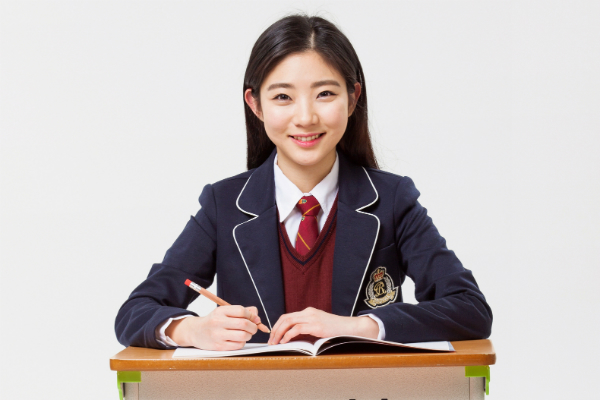
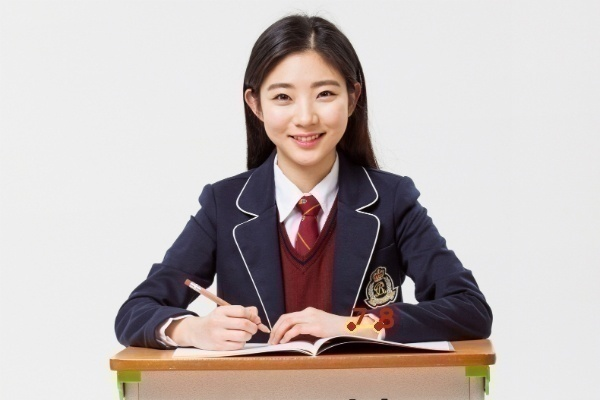
serer&db

diff --git a/Server/run.py b/Server/run.py
@@ -1,17 +1,28 @@
-from analysisVideo import AnalyzeVideo
-
-analyze = AnalyzeVideo()
-
-fname = 'image/hand2.jpg'
+#from analysisVideo import AnalyzeVideo
+from database.connect import Database
+from datetime import datetime
+#analyze = AnalyzeVideo()
+db = Database()
+fname = 'image/sample3.jpg'
 
 # analyze._analyzeFace(fname)
 # analyze._analyzePose(fname)
-analyze._analyzeHand(fname)
+#analyze._analyzeHand(fname)
 
-# from database.connect import Database
-# import datetime
-# db = Database()
 
-# args = (datetime.datetime.now(),1,0,0,1,0)
-# db.insertData(args)
-# db.selectAllData()q
+# 학생의 하나의 영상 테이블 생성
+studentID = "AAA"
+today = datetime.today().strftime("%Y%m%d")
+args = (studentID,today)
+cnt = int(db.checkCnt(args))
+cnt=cnt+1
+args = (studentID,today,cnt)
+db.createOneVideo(args)
+
+
+# 학생의 하나의 영상에 대한 데이터 삽입
+tabName = studentID+"_"+today+"_"+str(cnt-1)
+print(tabName)
+data = (4,5,3,2,5,19,"timestamp")
+args = (tabName,data)
+db.insertOneVideo(args)

diff --git a/Server/analysisVideo.py b/Server/analysisVideo.py
@@ -27,7 +27,7 @@ class AnalyzeVideo(object):
             frame = cv2.imread(fname, cv2.IMREAD_COLOR)
             frame = self.hand.inputImg(frame)
 
-            cv2.imshow(fname,frame)
+            cv2.imwrite(fname,frame)
 
             if cv2.waitKey(1) & 0xFF == ord('q'):
                 break
